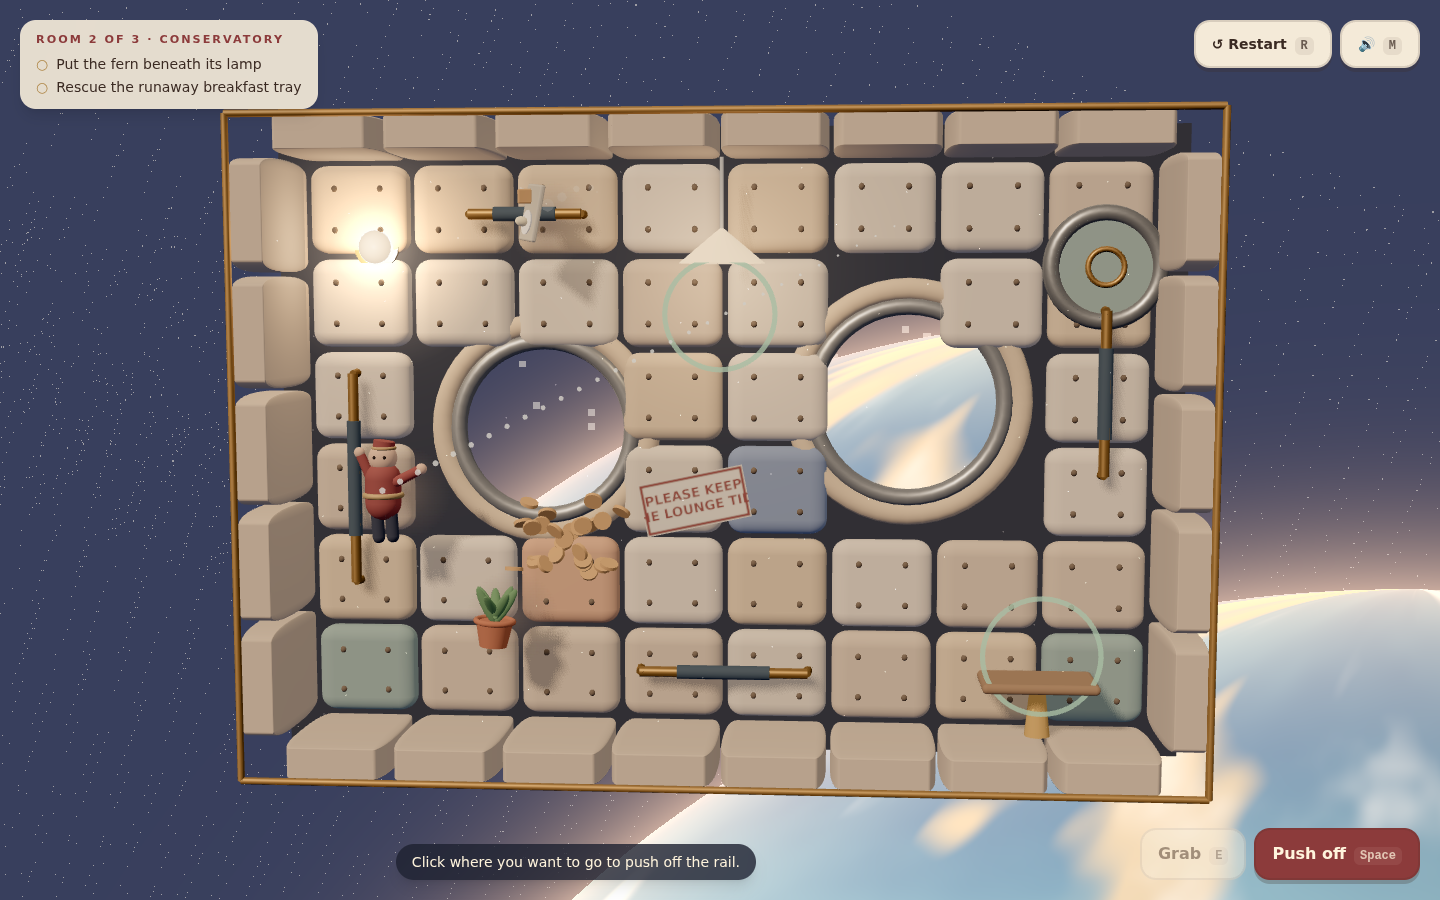
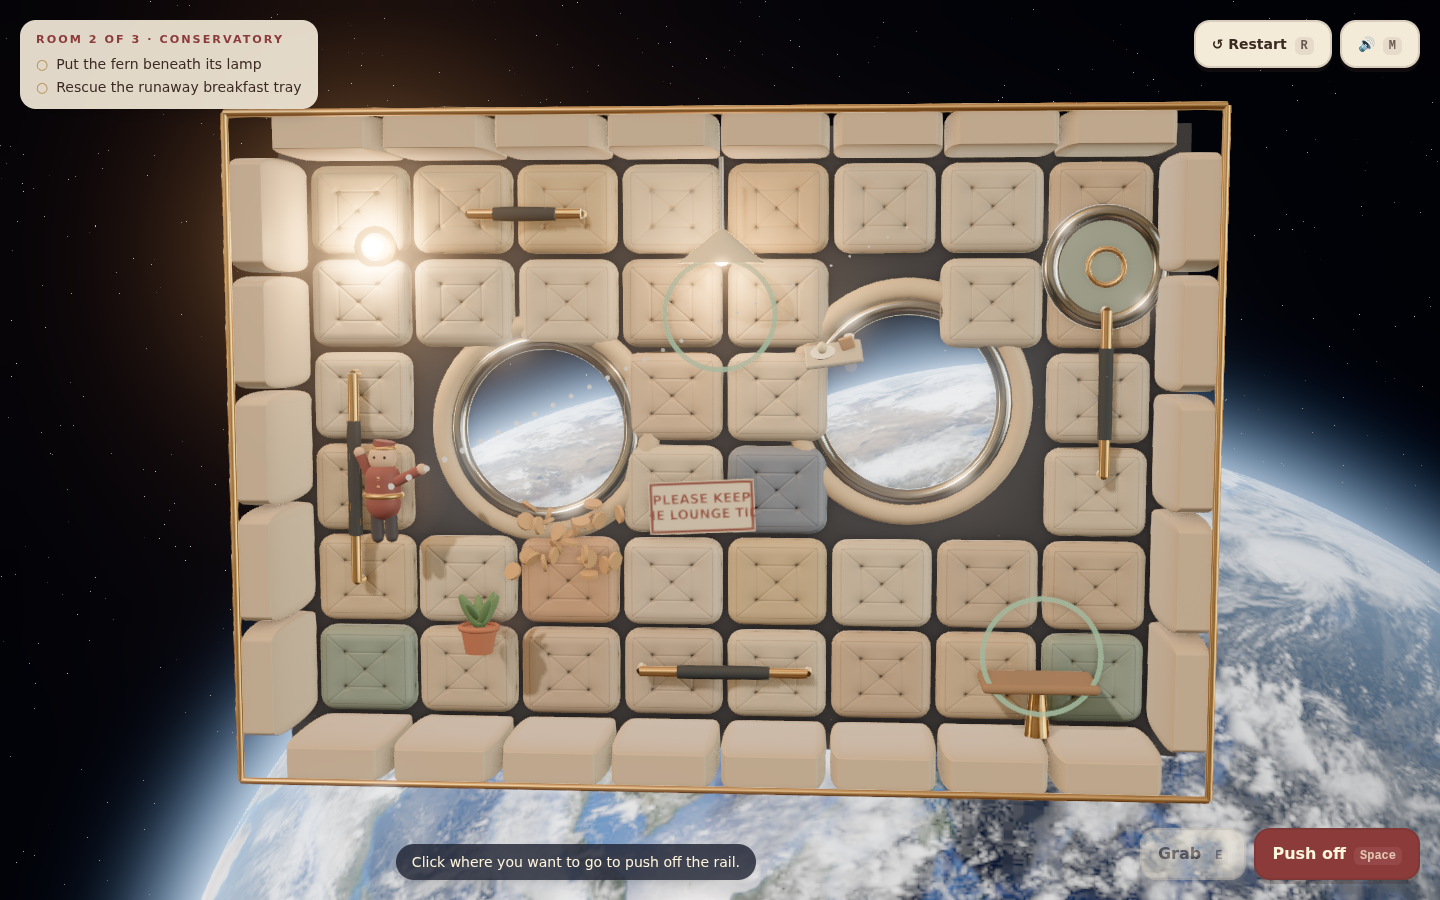
README: new screenshots, visual asset credits, lighting pipeline in Built with
Evidence: docs/readme/desktop.png, docs/readme/phone.png

Claude-Session: https://claude.ai/code/session_017DPBvj2qeaLZQV9CwxHkWo

diff --git a/README.md b/README.md
@@ -38,7 +38,7 @@ Tidy three rooms: return the cushion to the sofa, put the fern beneath its lamp,
 
 - **One honest physics rule.** Throws, push-offs, catches and bonks all conserve momentum, so every move is predictable and every mistake is funny.
 - **Three compact rooms, five tasks, one finale.** Each room is scored 1–3 stars on moves and time against par. Your bests stay in this browser. After room 3 the hold music fades, the line rings, and your shift is reviewed.
-- **Warm orbital domesticity.** Quilted panels that dent when you bounce off them, brass rails, soft lamp pools, drifting dust, and a porthole onto a huge planet that shifts with parallax.
+- **Warm orbital domesticity.** Tufted leather panels with stitched seams that dent when you bounce off them, brushed-brass rails that reflect the room, real lamp light, drifting dust, and portholes onto NASA's Earth with an atmosphere rim.
 - **A camera that never makes you seasick.** It is fixed and gently tilted. On a portrait phone the room turns a quarter to fill the screen, because in orbit there is no "up".
 - **Feel.** The attendant squashes along the hit, thrown things tumble, there is a faint drift trail, and hard bumps give a tiny camera nudge. All of it is toned down under `prefers-reduced-motion`.
 - **Sound design.** CC0 elevator music on hold, padded thumps, brass clinks, a pizzicato jingle per task, station hum, a synthesised phone ring, and a mute that remembers.
@@ -59,10 +59,11 @@ Tidy three rooms: return the cushion to the sofa, put the fern beneath its lamp,
 
 ## Built with
 
-Three.js 0.186 (used directly, no React Three Fiber), React 19, strict TypeScript, Vite 8, Tailwind CSS 4, GSAP, Biome and Bun. Every model, texture and the planet is authored procedurally in code.
+Three.js 0.186 (used directly, no React Three Fiber), React 19, strict TypeScript, Vite 8, Tailwind CSS 4, GSAP, Biome and Bun. Geometry is modelled in code; surfaces use sourced CC0 scans (tufted leather, brushed brass, bouclé, linen), and the planet is NASA imagery.
 
 Notable techniques:
 
+- **One lighting model.** An HDR half-float pipeline (GTAO, bloom above an HDR threshold, AgX applied once in OutputPass, SMAA). A real lounge HDRI is the only ambient light, every glowing lamp is a real light, and a lighter tier keeps phones smooth.
 - **Shared-momentum movement on a fixed 120 Hz step.** `src/game/` is pure TypeScript with no DOM: impulses, restitution, a revolving bar with surface velocity, and trajectory previews. It is covered by unit tests.
 - **The portrait camera.** Framing solves for the room's long side against the HUD's safe band, turning the view a quarter on tall screens. Keyboard aiming is remapped so "up" is always screen-up.
 - **An event-driven presentation layer.** The simulation emits events (throw, grab, bump, place), and the renderer, the audio mixer and the HUD each react to them independently. That keeps effects, sound and the React HUD out of the rules.
@@ -78,7 +79,22 @@ bun run e2e      # optional: Playwright plays room 1 headless
 
 ## Credits
 
-Design and code for the portfolio collection. All visuals are procedural; the finale's phone ring is synthesised with Web Audio; text uses the system font stack.
+Design and code for the portfolio collection. Geometry is modelled in code; the finale's phone ring is synthesised with Web Audio; text uses the system font stack. Every shipped asset is listed with its source, licence and sha256 in [`assets.manifest.json`](assets.manifest.json). Shipped assets total about 5.5 MB.
+
+### Visual assets
+
+| Files in `public/textures/` | Use | Source | Author | Licence |
+| --- | --- | --- | --- | --- |
+| `upholstery/*` (baked from Leather 037 plus a procedural tuft field) | Quilted panels, pads, buttons | [ambientCG Leather037](https://ambientcg.com/view?id=Leather037) | ambientCG | CC0 |
+| `brass/*` (from Metal 054 A) | Brass rails and trims, steel rims | [ambientCG Metal054A](https://ambientcg.com/view?id=Metal054A) | ambientCG | CC0 |
+| `fabric/wool_boucle_*` | Sofa, guest seat, cushion | [Poly Haven Wool Boucle](https://polyhaven.com/a/wool_boucle) (via ODD TIDE) | Poly Haven | CC0 |
+| `cloth/rough_linen_*` | Uniforms, lamp shade | [Poly Haven Rough Linen](https://polyhaven.com/a/rough_linen) (via ODD TIDE) | Poly Haven | CC0 |
+| `env/anniversary_lounge_1k.hdr` | Image-based light and reflections | [Poly Haven Anniversary Lounge](https://polyhaven.com/a/anniversary_lounge) | Greg Zaal | CC0 |
+| `planet/earth_day_2k.webp` | Earth, day side | [NASA Blue Marble Next Generation](https://visibleearth.nasa.gov/images/73909/december-blue-marble-next-generation-w-topography-and-bathymetry) | NASA Earth Observatory | Public domain |
+| `planet/earth_clouds_2k.webp` | Cloud cover | [NASA Blue Marble: Clouds](https://visibleearth.nasa.gov/images/57747/blue-marble-clouds) | NASA Visible Earth | Public domain |
+| `planet/earth_night_2k.webp` | City lights on the night side | [NASA Black Marble 2016](https://visibleearth.nasa.gov/images/144898/earth-at-night-black-marble-2016-color-maps) | NASA Earth Observatory | Public domain |
+
+The renderer's post-processing chain and material patterns are adapted from ODD TIDE (same portfolio collection, reused with permission).
 
 ### Audio (all CC0 1.0, public domain)
 
